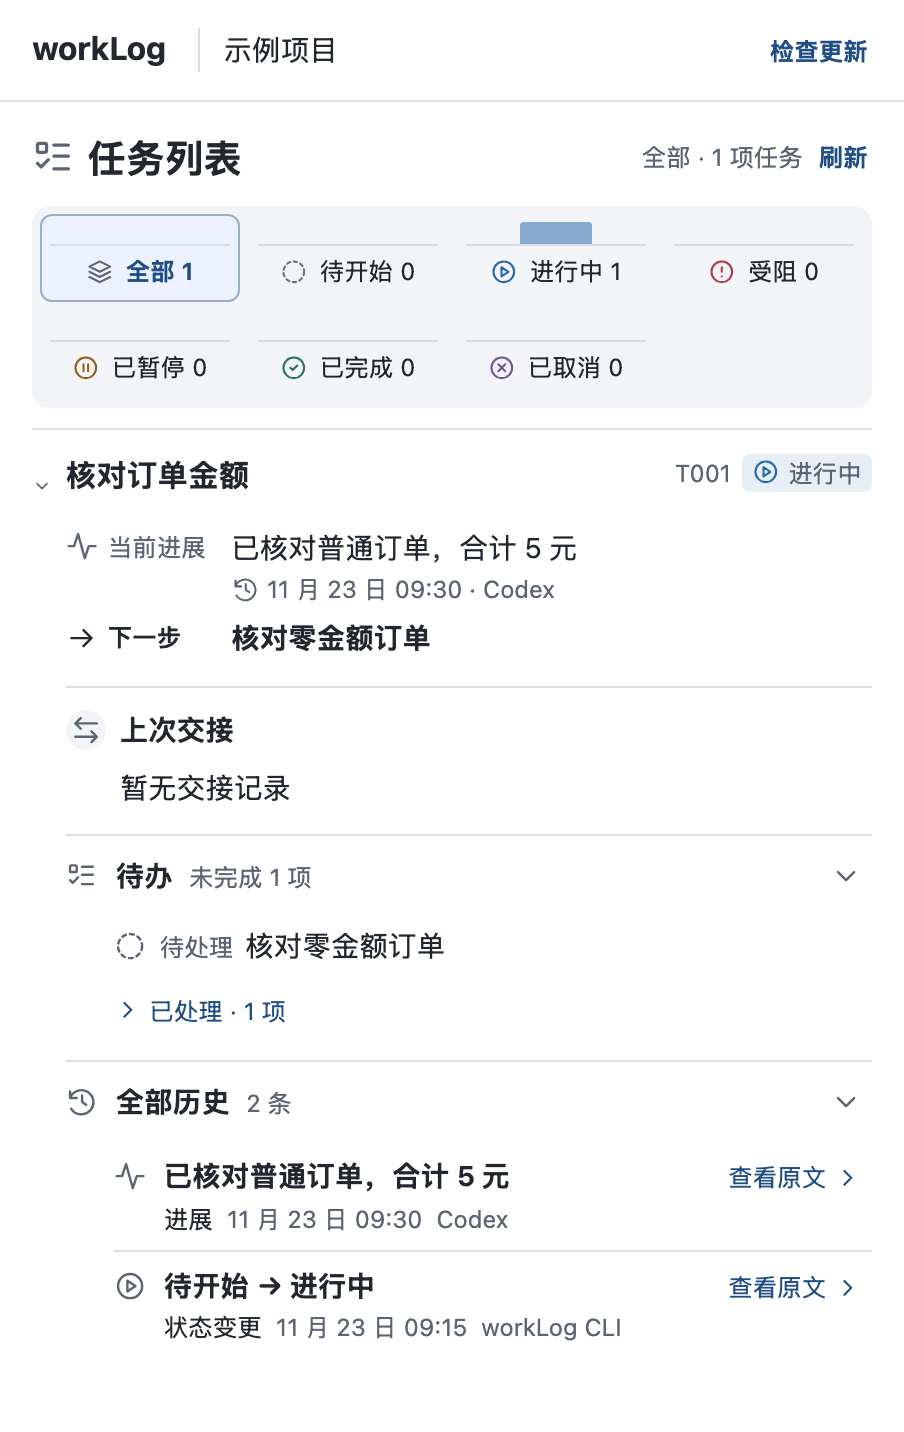
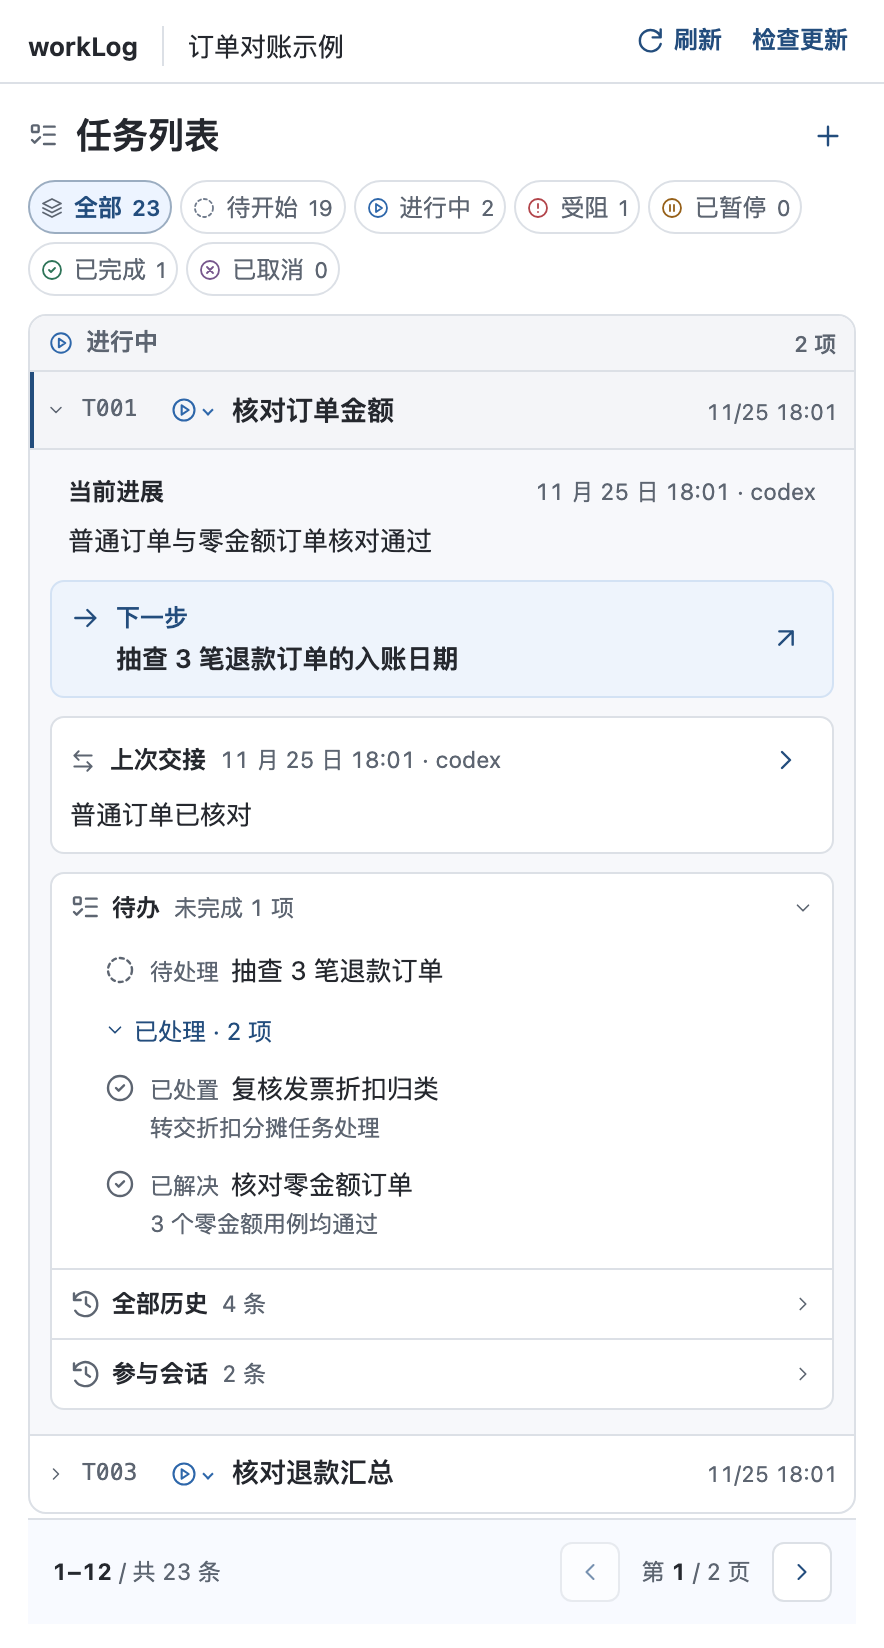
docs: refresh workLog README for GUI 0.2.0 and Skill v0.5.0

diff --git a/README.md b/README.md
@@ -2,13 +2,20 @@
 
 [English](README.en.md)
 
-workLog 把散落在与Agent聊天里的信息整理成可追踪的任务、待办和进展记录。你和 Agent 照常讨论工作worklog帮你从当前聊天自动提取已确认的事项并写入记录。后续有新进展，也可以直接让 Agent 更新记录，省下逐条建任务、手动记进度和反复交代背景的时间。
+workLog 把和 Agent 聊天时确认的工作整理成任务、待办和进展。你可以让 Agent 保存已确认的事项，在有新结果时更新对应任务，再从另一个聊天读回进度和下一步。
 
 ## 项目特色
 
 - **从聊天里提取要做的事**。Agent 根据上下文把已明确的工作整理成任务和待办，并列出需要确认的问题。
 - **按任务追踪进展**。把结果、决定、待办的处理情况和下一步记到对应任务上。之后按任务编号就能查回记录和完成依据。
 - **记录保存在项目本地**。每个项目都有独立的 SQLite 数据库，位于项目根目录的 `.worklog/`。CLI 可单独使用，并提供只读接口供其他工具查询。
+
+## GUI 0.2.0 和 CLI／Skill v0.5.0 的新功能
+
+- **跨聊天继续任务**。明确授权后，workLog 可以在一个 Codex 聊天跟进一个或多个任务。换到新聊天可以读回进展、待办和阻塞，再保存带来源的成果。整项任务完成仍需单独确认。
+- **在两个面板管理阻塞和待办**。Dashboard 和项目侧栏均可设置和逐条解除阻塞，显示待办的「已处置」或「已解决」及说明。补录旧待办时保留原文和原完成依据。
+- **分页浏览和筛选**。Dashboard 每页 20 条，项目侧栏每页 12 条。切换筛选会回到第一页，新增任务后定位到新任务所在页。
+- **查看原文与升级**。任务历史支持鼠标和键盘展开原文。GUI 安装失败会恢复升级前的插件安装和启用状态。现有 schema 4 项目可继续使用，公开只读协议沿用 2.0。
 
 ## 安装
 
@@ -49,20 +56,25 @@ https://github.com/floohubAI/worklog/releases/download/gui-codex-v0.2.0/install-
 
 ### 2. 更新任务
 
-- **CLI 版**。有新结果时，说「用 workLog 更新 T001」用 workLog 返回的任务编号替换 `T001`。
-- **GUI 版**。在 Codex 聊天中发送同样的更新指令。保存后点侧栏的「刷新」，检查进展、待办和下一步。
+- **CLI 版**。有新结果时，说「用 workLog 更新 T001。零金额订单已核对，下一步抽查退款订单。」用 workLog 返回的任务编号替换 `T001`。
+- **GUI 版**。在 Dashboard 或项目侧栏点「继续任务」，打开项目管理目录下的可编辑聊天草稿。发送预填草稿即可授权该聊天跟进任务。保存后点「刷新」，查看更新。
 
 ### 3. 查看任务
 
 - **CLI 版**。在聊天中说「用 workLog 查看 T001 的进展、未完成的待办和下一步。」还不知道任务编号时，可以先问「当前项目有哪些任务还没结束？」
 - **GUI 版**。先打开本地聊天的右边栏，然后选择「＋ → 更多工具 → 插件和 MCP → workLog 项目侧栏」。可以按状态筛选任务，点开任务查看待办和历史记录。 [打开侧栏](docs/user-guide.md#3-在-codex-侧栏查看任务)
 
-<img src="docs/images/codex-task-panel.png" alt="Codex 侧栏显示核对订单金额任务的进展、待办和历史" width="452">
+## 界面预览
 
-*Codex 任务侧栏预览，使用示例数据。*
+以下画面由 Codex GUI 0.2.0 正式包的面板渲染，使用订单对账示例数据。
 
+### Dashboard
 
+<img src="docs/images/codex-dashboard.png" alt="workLog Dashboard 显示项目筛选、任务列表和每页 20 条的分页控件" width="1024">
 
+### 项目侧栏
+
+<img src="docs/images/codex-task-panel.png" alt="workLog 项目侧栏显示订单核对的进展、继续任务按钮和已处置、已解决待办" width="442">
 
 ## 文档
 

diff --git a/README.en.md b/README.en.md
@@ -10,6 +10,13 @@ workLog turns information scattered across your chats with an agent into tasks, 
 - **Track progress by task.** Save results, decisions, updates to to-dos, and next steps under the relevant task. Use the task ID to find its history and evidence of completion later.
 - **Keep project data local.** Each project has its own SQLite database in `.worklog/` at the project root. The CLI can run on its own and provides a read-only interface for other tools.
 
+## What's new in GUI 0.2.0 and CLI / Skill v0.5.0
+
+- **Pick up work in a new chat.** Authorize workLog to follow one or more tasks in Codex. A new chat can read saved progress, to-dos, and blockers, then save its own results with their source. Completing the whole task still requires a separate confirmation.
+- **Manage blockers and to-dos from either panel.** Set and clear blockers one at a time in the Dashboard or project sidebar. Both show to-do outcomes and their explanations. Recording an outcome for an older to-do preserves the original entry and completion evidence.
+- **Browse and filter by page.** The Dashboard shows 20 tasks per page, and the project sidebar shows 12. Changing a filter returns to page one. Adding a task opens the page that contains it.
+- **Read history and upgrade.** Open history entries with the mouse or keyboard. If GUI installation fails, the installer restores the previous plugin installation and enabled state. Existing schema 4 projects still work with read-only protocol 2.0.
+
 ## Installation
 
 Choose an edition and paste its installation prompt into an agent client that can run commands on your computer.
@@ -49,17 +56,25 @@ Start a chat from your project's root directory and load the `worklog` Skill. If
 
 ### 2. Update a task
 
-- **CLI edition.** When you have new results, say “Use workLog to update T001.” Replace `T001` with the task ID that workLog returned.
-- **GUI edition.** Send the same request in Codex. Once the update is saved, click **Refresh** (`刷新`) in the sidebar to check the progress, to-dos, and next step.
+- **CLI edition.** When you have new results, say “Use workLog to update T001. The zero-amount orders are verified. Next, spot-check the refunds.” Replace `T001` with the task ID that workLog returned.
+- **GUI edition.** Click **Continue task** (`继续任务`) in the Dashboard or project sidebar to open an editable chat draft in the project's workLog directory. Send the prefilled draft to authorize that chat to follow the task. Click **Refresh** (`刷新`) after saving an update.
 
 ### 3. View a task
 
 - **CLI edition.** Say “Use workLog to show the progress, open to-dos, and next step for T001.” If you don't know the task ID yet, ask “Which tasks are still open in this project?”
 - **GUI edition.** In a local Codex chat, open the right sidebar and select **+ → More tools → Plugins and MCP → workLog 项目侧栏** (workLog Project Sidebar). Filter tasks by status and expand a task to see its to-dos and history. [Open the sidebar (Chinese)](docs/user-guide.md#3-在-codex-侧栏查看任务)
 
-<img src="docs/images/codex-task-panel.png" alt="Codex sidebar showing progress, to-dos, and history for the order verification task" width="452">
+## Screenshots
 
-*Codex task sidebar with sample data in the Chinese interface.*
+These screenshots show the panels from the Codex GUI 0.2.0 release with sample order-reconciliation data in the Chinese interface.
+
+### Dashboard
+
+<img src="docs/images/codex-dashboard.png" alt="workLog Dashboard showing project filters, the task list, and pagination at 20 tasks per page" width="1024">
+
+### Project sidebar
+
+<img src="docs/images/codex-task-panel.png" alt="workLog project sidebar showing progress, the Continue task button, and disposed and resolved to-dos" width="442">
 
 ## Documentation
 
